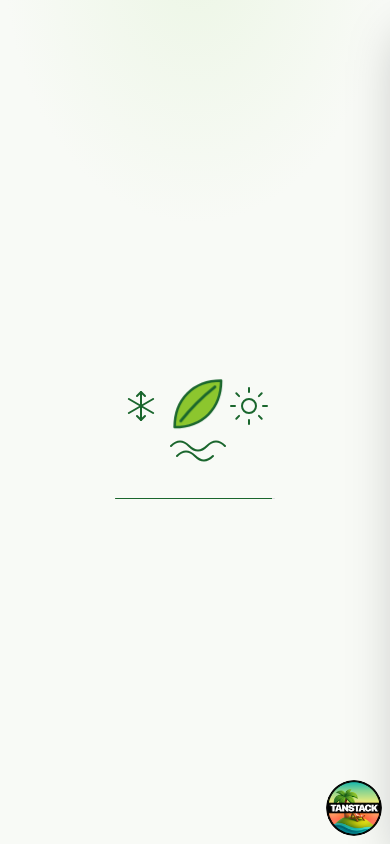
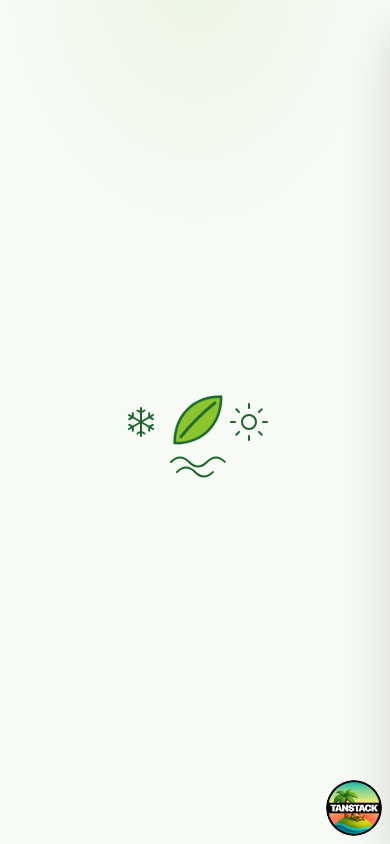
Marketing bar: Entrar is the primary button; interstitial: real snowflake, no progress bar
Entrar (primary) and Registar empresa (outline) swap in the top bar and the
phone menu. The cooling glyph is a six-arm snowflake with branch ticks. The
hairline progress bar under the glyphs is gone.

Changed region(s): [[0.4308, 0.4313, 0.6769, 0.5853], [0.3077, 0.4621, 0.4, 0.5237]]

diff --git a/client-frontend/src/components/shell/marketing-shell.tsx b/client-frontend/src/components/shell/marketing-shell.tsx
@@ -24,7 +24,7 @@ import {
 
 /**
  * Chrome for signed-out visitors: a slim 56px bar (wordmark, Produtos, Sobre,
- * Entrar, Registar empresa) and a compact footer with the contact
+ * Registar empresa, Entrar as the primary) and a compact footer with the contact
  * and legal links. On phones the nav collapses into a hamburger sheet.
  */
 export function MarketingShell({ children }: { children: React.ReactNode }) {
@@ -56,19 +56,19 @@ function BarraMarketing() {
 
         <div className="ml-auto flex items-center gap-2">
           <Button
-            render={<Link to="/entrar" />}
-            nativeButton={false}
-            variant="outline"
-            className="hidden sm:inline-flex"
-          >
-            Entrar
-          </Button>
-          <Button
             render={<Link to="/registo" />}
             nativeButton={false}
+            variant="outline"
             className="hidden md:inline-flex"
           >
             Registar empresa
+          </Button>
+          <Button
+            render={<Link to="/entrar" />}
+            nativeButton={false}
+            className="hidden sm:inline-flex"
+          >
+            Entrar
           </Button>
           <MenuMovel />
         </div>
@@ -152,20 +152,16 @@ function MenuMovel() {
           </Link>
         </nav>
         <div className="mt-auto flex flex-col gap-2 border-t p-4 pb-[calc(1rem+env(safe-area-inset-bottom))]">
-          <Button
-            render={<Link to="/registo" />}
-            nativeButton={false}
-            size="lg"
-          >
-            Registar empresa
+          <Button render={<Link to="/entrar" />} nativeButton={false} size="lg">
+            Entrar
           </Button>
           <Button
-            render={<Link to="/entrar" />}
+            render={<Link to="/registo" />}
             nativeButton={false}
             variant="outline"
             size="lg"
           >
-            Entrar
+            Registar empresa
           </Button>
         </div>
       </SheetContent>

diff --git a/client-frontend/src/routes/bem-vindo.tsx b/client-frontend/src/routes/bem-vindo.tsx
@@ -57,14 +57,6 @@ function BemVindoPage() {
       </Show>
       <div className="flex flex-col items-center">
         <Clima />
-        <div
-          className="animate-rise mt-8 h-px w-40 overflow-hidden rounded-full bg-border"
-          style={{ "--delay": "300ms" } as React.CSSProperties}
-          role="progressbar"
-          aria-label="A abrir a sua área"
-        >
-          <div className="entrada-barra h-full w-full bg-primary" />
-        </div>
       </div>
     </div>
   )
@@ -112,19 +104,22 @@ function Clima() {
         />
       </g>
 
-      {/* Snowflake (cooling), left. */}
+      {/* Snowflake (cooling), left: three arms through the centre, then a
+          pair of branch ticks near each of the six tips. */}
       <g
         className="clima-glifo clima-frio"
         stroke="var(--primary)"
         strokeWidth={2}
       >
-        <path className="clima-traco" pathLength={1} d="M26 46v28" />
-        <path className="clima-traco" pathLength={1} d="M13.9 53l24.2 14" />
-        <path className="clima-traco" pathLength={1} d="M13.9 67l24.2-14" />
         <path
           className="clima-traco"
           pathLength={1}
-          d="M22 50l4-4 4 4M22 70l4 4 4-4"
+          d="M26.0 74.0L26.0 46.0 M13.9 67.0L38.1 53.0 M13.9 53.0L38.1 67.0"
+        />
+        <path
+          className="clima-traco"
+          pathLength={1}
+          d="M26.0 69.5l-3.5 2.0 M26.0 69.5l3.5 2.0 M17.8 64.8l-3.5 -2.0 M17.8 64.8l-0.0 4.0 M17.8 55.2l-0.0 -4.0 M17.8 55.2l-3.5 2.0 M26.0 50.5l3.5 -2.0 M26.0 50.5l-3.5 -2.0 M34.2 55.2l3.5 2.0 M34.2 55.2l-0.0 -4.0 M34.2 64.8l0.0 4.0 M34.2 64.8l3.5 -2.0"
         />
       </g>
 

diff --git a/client-frontend/src/styles.css b/client-frontend/src/styles.css
@@ -334,8 +334,7 @@
 
 /* ---------------------------------------------------------------------------
  * Welcome interstitial (/bem-vindo): the leaf draws and fills, then the
- * cooling / heating / water glyphs draw around it in turn; a hairline fills
- * while the destination loads. Paths use pathLength="1" so a single dash rule
+ * cooling / heating / water glyphs draw around it in turn. Paths use pathLength="1" so a single dash rule
  * draws any of them.
  * ------------------------------------------------------------------------- */
 /* Round caps would show a dot at the start of an undrawn path, so a path
@@ -359,14 +358,6 @@
   }
   to {
     opacity: 1;
-  }
-}
-@keyframes barra-preencher {
-  from {
-    transform: scaleX(0);
-  }
-  to {
-    transform: scaleX(1);
   }
 }
 .clima-traco {
@@ -399,14 +390,9 @@
   --delay: 1300ms;
   animation-duration: 0.45s;
 }
-.entrada-barra {
-  transform-origin: left;
-  animation: barra-preencher 1.7s cubic-bezier(0.4, 0, 0.2, 1) 0.35s both;
-}
 @media (prefers-reduced-motion: reduce) {
   .clima-traco,
-  .clima-folha-preencher,
-  .entrada-barra {
+  .clima-folha-preencher {
     animation: none;
     stroke-dashoffset: 0;
     opacity: 1;
